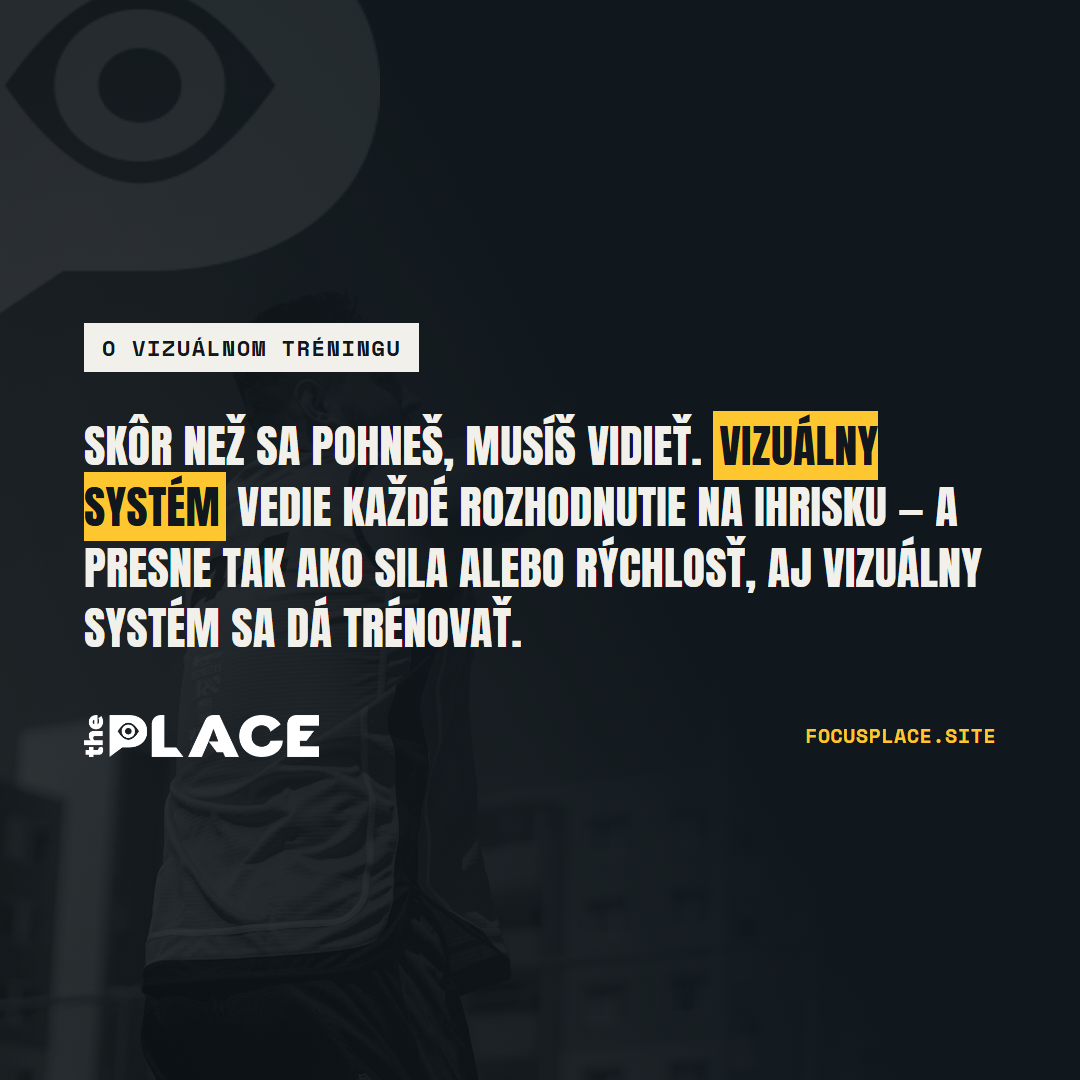
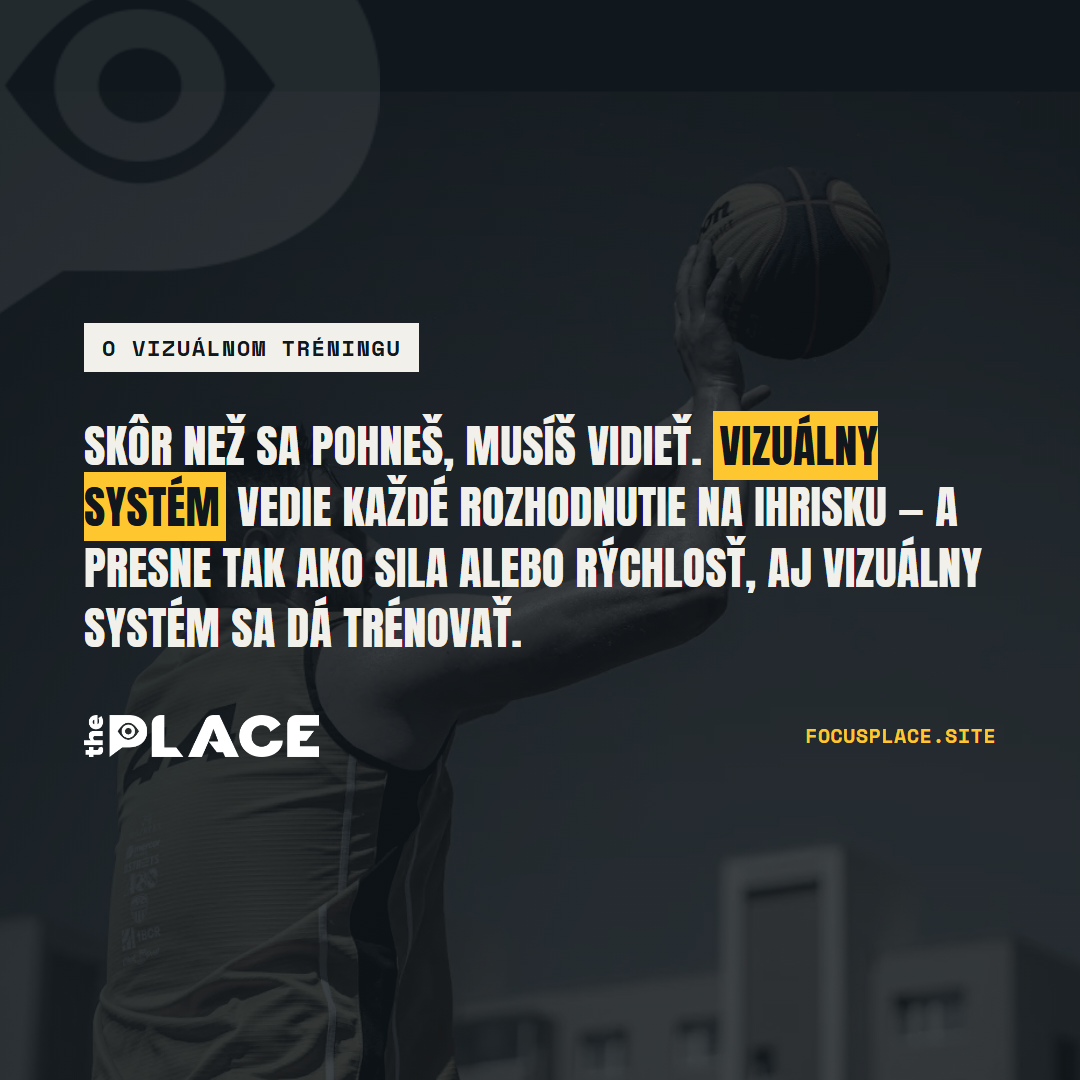
Refine IG post slide 2 background to show full player figure and ball

diff --git a/ig-vizualny-system-2.html b/ig-vizualny-system-2.html
@@ -14,13 +14,14 @@
 
   .bg{position:absolute; inset:0; z-index:0; overflow:hidden;}
   .bg img{
-    width:100%; height:100%; object-fit:cover; object-position:60% 35%;
-    filter:grayscale(1) brightness(0.55) contrast(1.05);
+    width:100%; height:100%; object-fit:cover; object-position:55% 20%;
+    transform:scale(1.15) translate(-40px, 150px);
+    filter:grayscale(0.85) brightness(0.8) contrast(1.15);
     opacity:0.4;
   }
   .bg .fade{
     position:absolute; inset:0;
-    background:linear-gradient(245deg, var(--navy) 0%, var(--navy) 42%, rgba(17,24,29,0.55) 68%, rgba(17,24,29,0.25) 100%);
+    background:linear-gradient(115deg, rgba(17,24,29,0.9) 0%, rgba(17,24,29,0.55) 35%, rgba(17,24,29,0.35) 65%, rgba(17,24,29,0.35) 100%);
   }
 
   .icon{position:absolute; left:-100px; top:-100px; width:480px; height:480px; opacity:0.08; z-index:0;}

diff --git a/ig-vizualny-system.html b/ig-vizualny-system.html
@@ -16,7 +16,9 @@
   .bg img{
     width:100%; height:100%; object-fit:cover; object-position:70% 30%;
     filter:grayscale(1) brightness(0.55) contrast(1.05);
-    opacity:0.4;
+    opacity:0.28;
+    -webkit-mask-image:radial-gradient(circle at 76% 68%, black 0%, rgba(0,0,0,0.5) 38%, transparent 72%);
+    mask-image:radial-gradient(circle at 76% 68%, black 0%, rgba(0,0,0,0.5) 38%, transparent 72%);
   }
   .bg .fade{
     position:absolute; inset:0;
